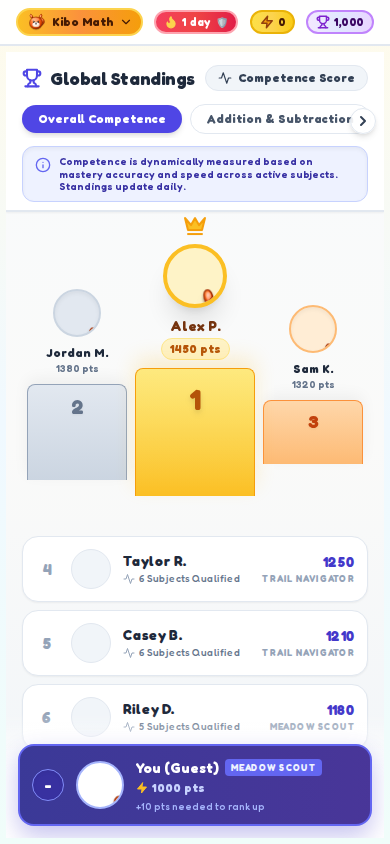
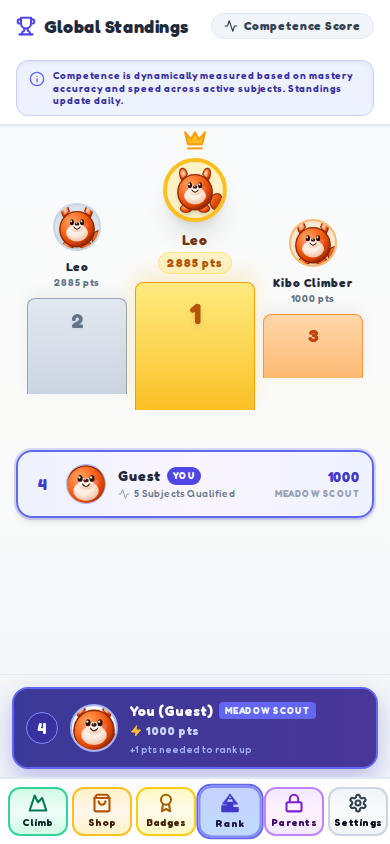
Fix leaderboard ID overwrite and remove mocked filters
- Update `leaderboardService.js` to use `${uid}_${profileId}` for unique documents.
- Add `_getFallbackDeviceId` fallback for unauthenticated users.
- Remove mocked Subject filter buttons from `LeaderboardScreen.jsx`.

diff --git a/src/components/LeaderboardScreen.jsx b/src/components/LeaderboardScreen.jsx
@@ -1,17 +1,10 @@
-import React, { useState, useRef, useEffect } from 'react';
-import { Trophy, ArrowLeft, Crown, Medal, User, Info, ChevronLeft, ChevronRight, Activity, Zap } from 'lucide-react';
+import React, { useState, useEffect } from 'react';
+import { Trophy, ArrowLeft, Crown, Medal, User, Info, Activity, Zap } from 'lucide-react';
 import Mascot from './Mascot';
 import { soundFx } from '../utils/audio';
 import { getCompetenceRankTier } from '../utils/GameEconomyModel';
 import { storageService } from '../services/storageService';
 import { leaderboardService } from '../services/leaderboardService';
-
-const MOCK_SUBJECTS = [
-  { id: 'overall', label: 'Overall Competence' },
-  { id: 'add_sub', label: 'Addition & Subtraction' },
-  { id: 'mult_div', label: 'Multiplication & Division' },
-  { id: 'fractions', label: 'Fractions' }
-];
 
 const MOCK_LEADERBOARD_DATA = [
   { rank: 1, name: "Alex P.", score: 1450, subjectsMastered: 8, equipped: ['golden_skin', 'crown', 'royal_cape'] },
@@ -27,13 +20,7 @@ const MOCK_LEADERBOARD_DATA = [
 ];
 
 export default function LeaderboardScreen({ userState, renderFooter, equippedItems = [] }) {
-  const [activeSubject, setActiveSubject] = useState('overall');
-  const [sortByCompetence, setSortByCompetence] = useState(true);
   const [liveStandings, setLiveStandings] = useState([]);
-
-  const subjectScrollRef = useRef(null);
-  const [canScrollLeft, setCanScrollLeft] = useState(false);
-  const [canScrollRight, setCanScrollRight] = useState(true);
 
   const activeProfile = storageService.getActiveProfile();
   const username = storageService.getUsername() || activeProfile?.username || activeProfile?.name || 'You';
@@ -99,33 +86,6 @@ export default function LeaderboardScreen({ userState, renderFooter, equippedIte
     pointsNeeded = playerAbove ? Math.max(1, playerAbove.score - userScore + 1) : 1;
   }
 
-  const checkScroll = () => {
-    if (!subjectScrollRef.current) return;
-    const { scrollLeft, scrollWidth, clientWidth } = subjectScrollRef.current;
-    setCanScrollLeft(scrollLeft > 4);
-    setCanScrollRight(scrollLeft + clientWidth < scrollWidth - 6);
-  };
-
-  useEffect(() => {
-    setTimeout(checkScroll, 100);
-    window.addEventListener('resize', checkScroll);
-    return () => window.removeEventListener('resize', checkScroll);
-  }, []);
-
-  const handleScrollLeft = () => {
-    soundFx.playKeyTap();
-    if (subjectScrollRef.current) {
-      subjectScrollRef.current.scrollBy({ left: -150, behavior: 'smooth' });
-    }
-  };
-
-  const handleScrollRight = () => {
-    soundFx.playKeyTap();
-    if (subjectScrollRef.current) {
-      subjectScrollRef.current.scrollBy({ left: 150, behavior: 'smooth' });
-    }
-  };
-
   // Top 10 users for main standings display
   const top10 = rankedStandings.slice(0, 10);
   const top3 = top10.slice(0, 3);
@@ -147,60 +107,10 @@ export default function LeaderboardScreen({ userState, renderFooter, equippedIte
             <h2 className="text-lg font-black tracking-tight">Global Standings</h2>
           </div>
 
-          <button
-            onClick={() => {
-              soundFx.playKeyTap();
-              setSortByCompetence(!sortByCompetence);
-            }}
-            className="flex items-center gap-1.5 bg-slate-100 hover:bg-slate-200 text-slate-700 px-3 py-1 rounded-full text-xs font-bold border border-slate-200 transition-colors"
-          >
+          <div className="flex items-center gap-1.5 bg-slate-100 text-slate-700 px-3 py-1 rounded-full text-xs font-bold border border-slate-200">
             <Activity className="w-3.5 h-3.5" />
-            {sortByCompetence ? 'Competence Score' : 'Mastery Level'}
-          </button>
-        </div>
-
-        {/* Horizontal Scrollable Subject Pills */}
-        <div className="relative px-2">
-          {canScrollLeft && (
-            <button
-              onClick={handleScrollLeft}
-              className="absolute left-2 top-1/2 -translate-y-1/2 z-20 p-1 bg-white/90 text-slate-700 rounded-full shadow-md border border-slate-200 hover:bg-white"
-            >
-              <ChevronLeft className="w-4 h-4 stroke-[3]" />
-            </button>
-          )}
-
-          <div
-            ref={subjectScrollRef}
-            onScroll={checkScroll}
-            className="flex items-center gap-2 overflow-x-auto scrollbar-none pb-1 px-2 scroll-smooth touch-pan-x"
-          >
-            {MOCK_SUBJECTS.map((subject) => (
-              <button
-                key={subject.id}
-                onClick={() => {
-                  soundFx.playKeyTap();
-                  setActiveSubject(subject.id);
-                }}
-                className={`py-1.5 px-4 text-xs font-extrabold rounded-full shrink-0 transition-all ${
-                  activeSubject === subject.id
-                    ? 'bg-indigo-600 text-white shadow-md'
-                    : 'bg-white text-slate-600 hover:bg-slate-100 border border-slate-200'
-                }`}
-              >
-                {subject.label}
-              </button>
-            ))}
+            Competence Score
           </div>
-
-          {canScrollRight && (
-            <button
-              onClick={handleScrollRight}
-              className="absolute right-2 top-1/2 -translate-y-1/2 z-20 p-1 bg-white/90 text-slate-700 rounded-full shadow-md border border-slate-200 hover:bg-white"
-            >
-              <ChevronRight className="w-4 h-4 stroke-[3]" />
-            </button>
-          )}
         </div>
 
         {/* Fairness Banner */}

diff --git a/src/services/leaderboardService.js b/src/services/leaderboardService.js
@@ -57,12 +57,15 @@ class LeaderboardService {
         }
       }
 
-      // Fall back to profileId or local_user only if auth fails, but warn if missing auth context
-      const uid = this.currentUser ? this.currentUser.uid : (profileId || 'local_user');
-      const userRef = doc(db, LEADERBOARD_COLLECTION, uid);
+      // Ensure unique document ID per profile (auth UID + profile ID)
+      const baseUid = this.currentUser ? this.currentUser.uid : this._getFallbackDeviceId();
+      const safeProfileId = profileId || 'default_child';
+      const documentId = `${baseUid}_${safeProfileId}`;
+      const userRef = doc(db, LEADERBOARD_COLLECTION, documentId);
 
       const payload = {
-        uid,
+        uid: baseUid,
+        profileId: safeProfileId,
         name: name || 'Kibo Climber',
         score: Number(score) || 1000,
         subjectsMastered: Number(subjectsMastered) || 0,
@@ -73,6 +76,20 @@ class LeaderboardService {
       await setDoc(userRef, payload, { merge: true });
     } catch (error) {
       console.warn('LeaderboardService: Failed to sync score to Firestore (check security rules / network)', error);
+    }
+  }
+
+  // Generates or retrieves a fallback device ID for anonymous users who fail to sign in to Firebase
+  _getFallbackDeviceId() {
+    try {
+      let deviceId = localStorage.getItem('kibo_fallback_device_id');
+      if (!deviceId) {
+        deviceId = 'local_' + Date.now() + '_' + Math.random().toString(36).substring(2, 9);
+        localStorage.setItem('kibo_fallback_device_id', deviceId);
+      }
+      return deviceId;
+    } catch (e) {
+      return 'local_user_' + Date.now();
     }
   }
 
